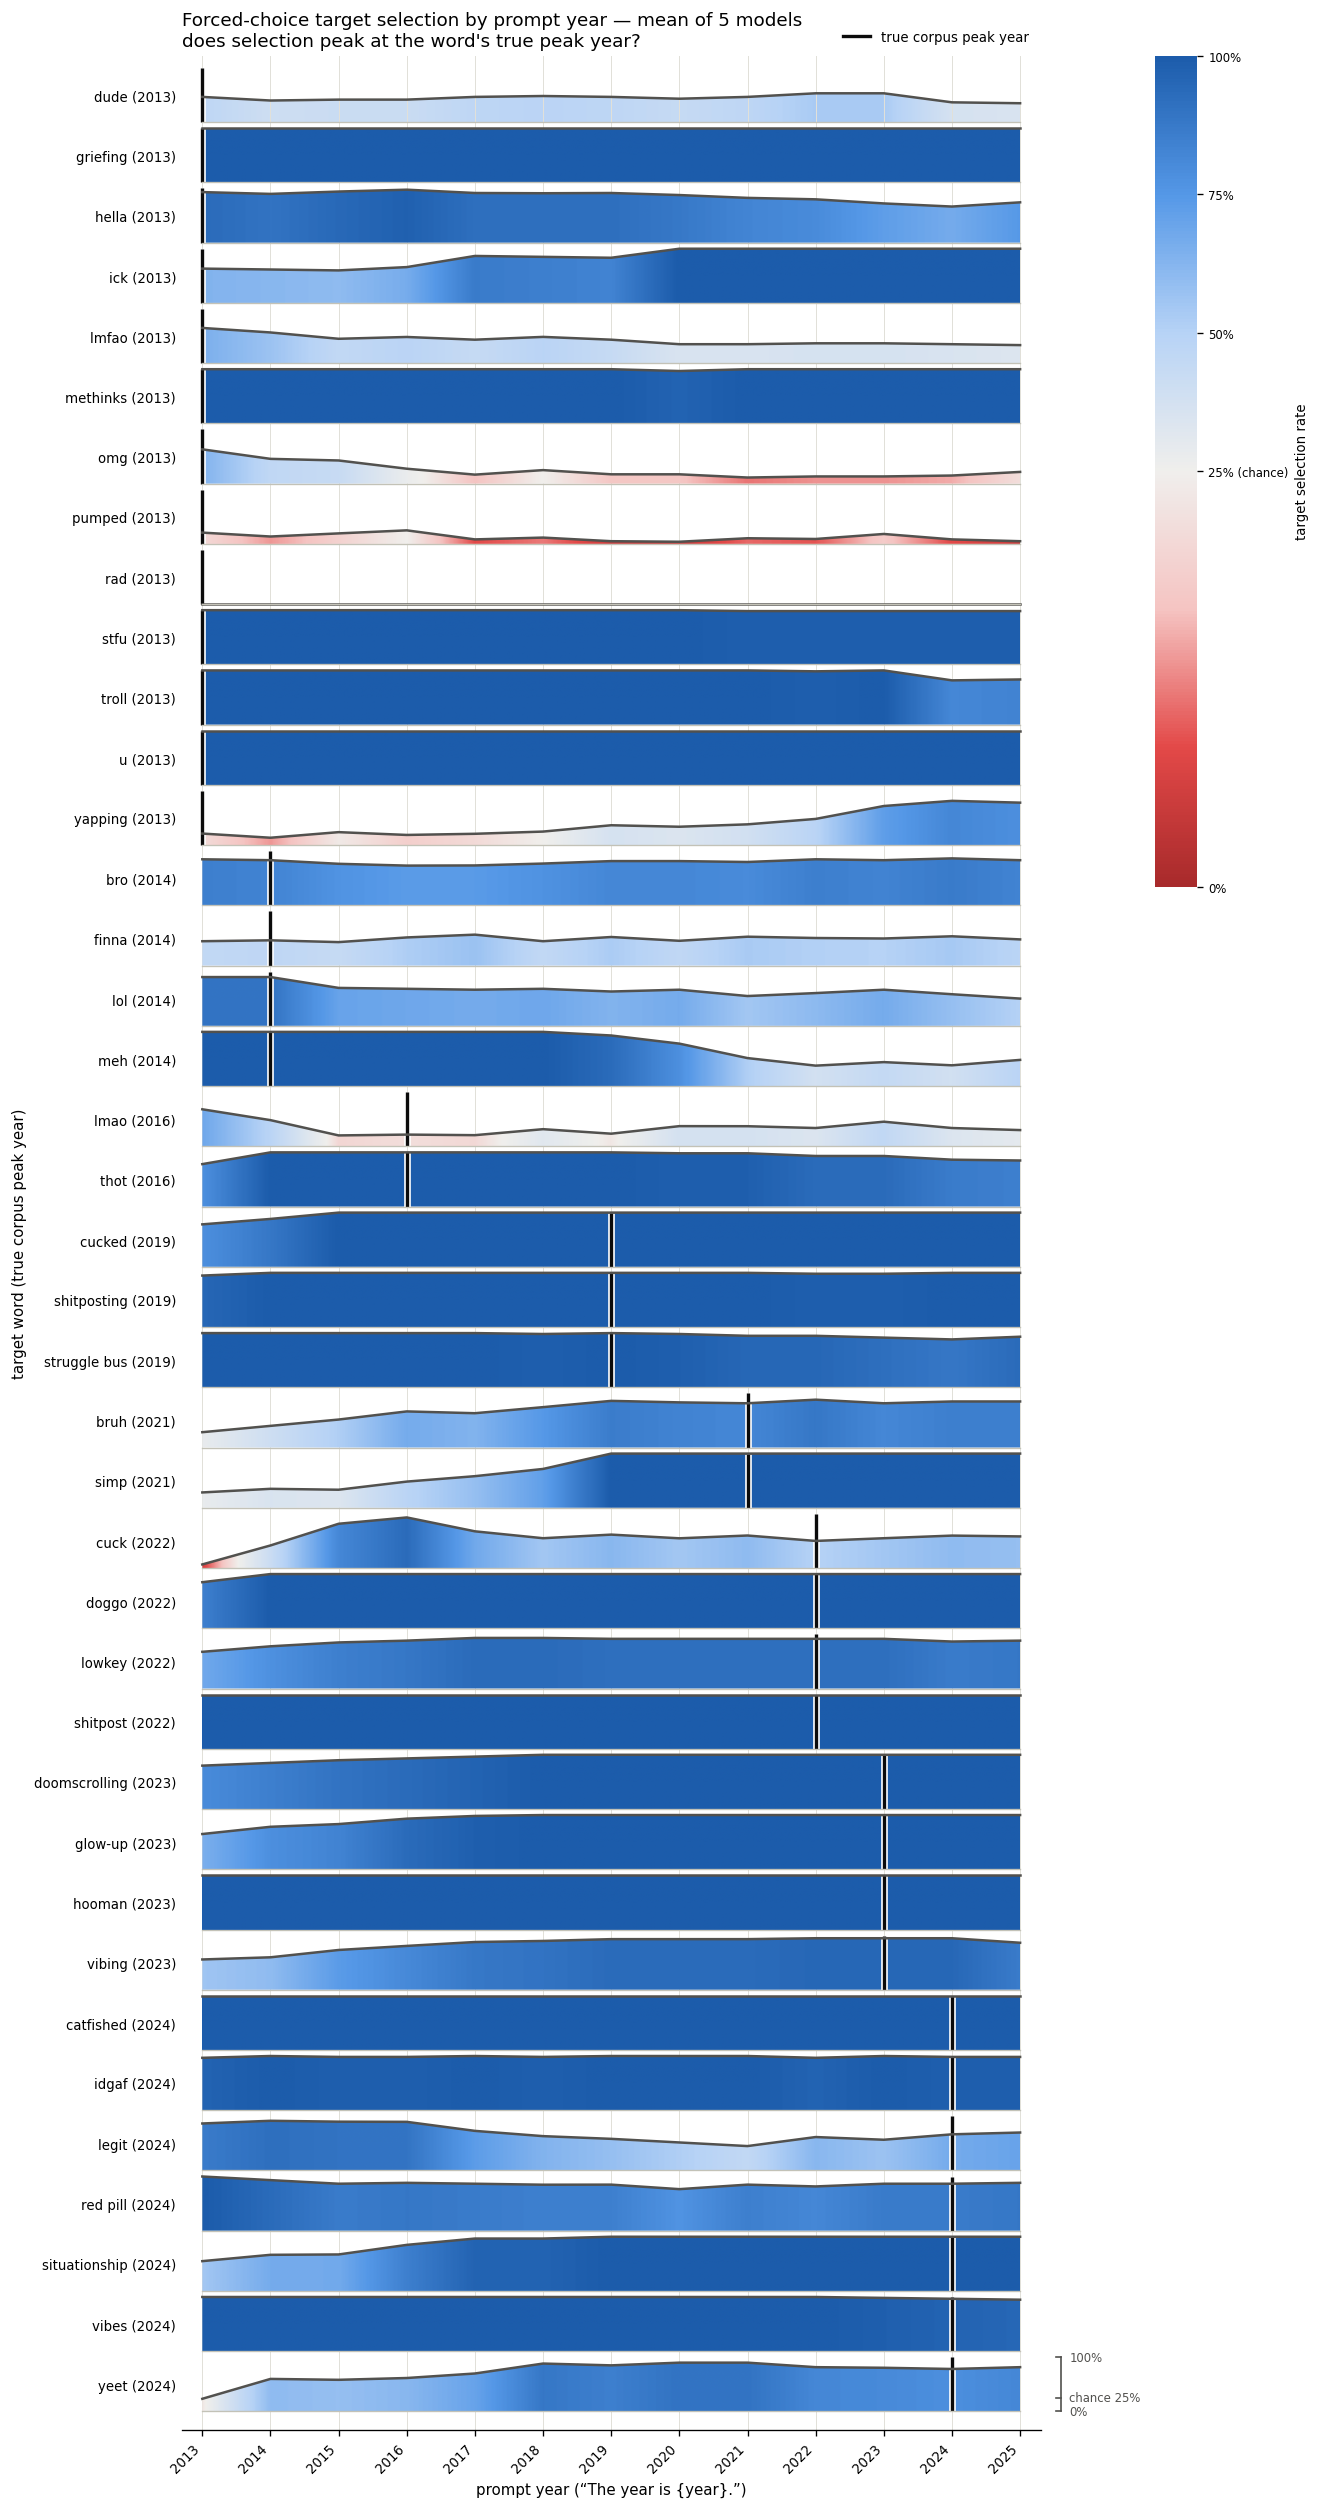
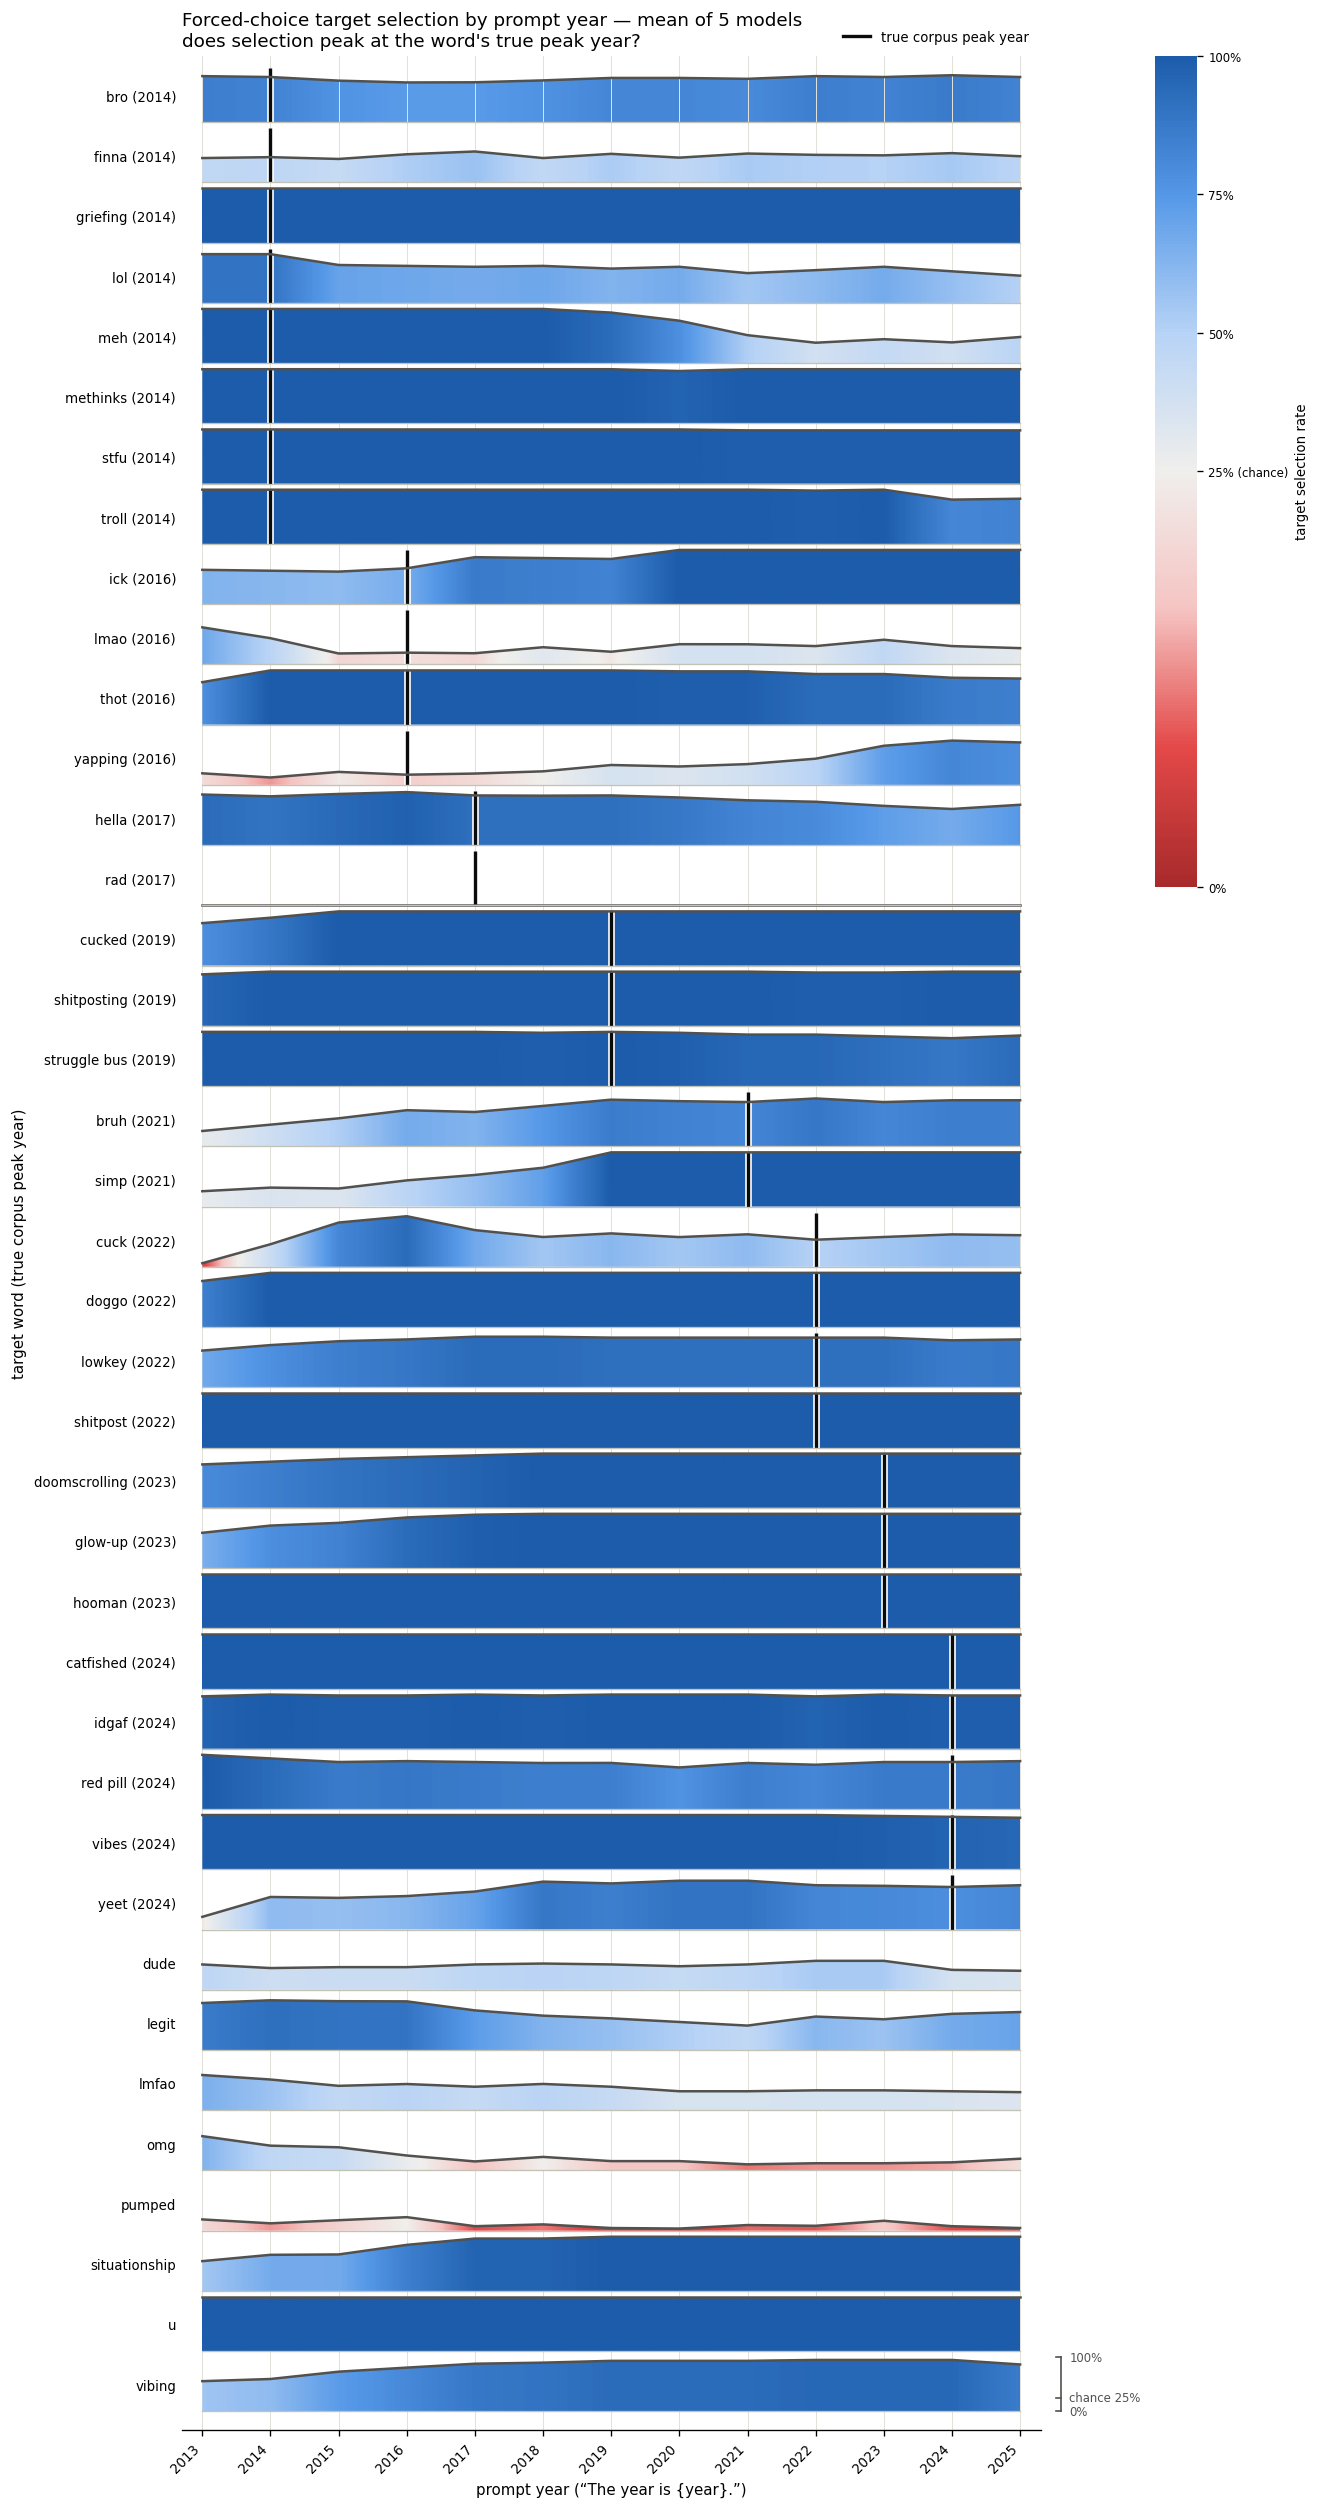
Regenerate analysis charts

diff --git a/PromptingSlang/experiments/semantic_slot_queries/visualizer/exp3_multi_choice_visualizer.py b/PromptingSlang/experiments/semantic_slot_queries/visualizer/exp3_multi_choice_visualizer.py
@@ -30,6 +30,7 @@ from __future__ import annotations
 
 import argparse
 import importlib.util
+import re
 import sys
 from collections import Counter, defaultdict
 from pathlib import Path
@@ -56,10 +57,8 @@ def _load(path: Path, name: str):
     return module
 
 
-# Word order and slot-id mapping come from the free-response visualizer, and the
-# A/B/C/D parsing from the forced-choice analysis script, so all three stay in
-# lockstep with this one.
-_slot = _load(Path(__file__).resolve().parent / "visualize.py", "_slot_viz")
+# The A/B/C/D parsing comes from the forced-choice analysis script, so the two
+# stay in lockstep.
 _cf = _load(EXP_DIR / "analysis" / "exp3_choice_freq.py", "_exp3_choice_freq")
 WORDS_CHRONO_ORDER = ["stfu", "lmfao", "griefing", "methinks", "omg", "u", "yapping",
                    "ick", "dude", "hella", "troll", "pumped", "rad", "lol", "meh",
@@ -67,7 +66,13 @@ WORDS_CHRONO_ORDER = ["stfu", "lmfao", "griefing", "methinks", "omg", "u", "yapp
                    "simp", "bruh", "cuck", "doggo", "shitpost", "💀", "lowkey", "doomscrolling",
                    "glow-up", "vibing", "hooman", "situationship", "yeet",
                    "catfished", "red pill", "vibes", "idgaf", "legit"]
-target_prompt_id = _slot.target_prompt_id
+# Prompt ids that can't be derived from the word itself (an emoji isn't a valid id).
+_PROMPT_ID_OVERRIDES = {"💀": "exp3_skull"}
+
+
+def target_prompt_id(word: str) -> str:
+    """'red pill' -> 'exp3_red_pill', 'glow-up' -> 'exp3_glow_up', '💀' -> 'exp3_skull'."""
+    return _PROMPT_ID_OVERRIDES.get(word) or "exp3_" + re.sub(r"[ \-]", "_", word)
 
 DEFAULT_RESPONSES = EXP_DIR / "results_from_list"
 DEFAULT_PEAK_YEARS = REPO_ROOT.parent / "FineWebAnalysis" / "peak_years_pct.json"

diff --git a/PromptingSlang/experiments/semantic_slot_queries/analysis/exp3_choice_freq.py b/PromptingSlang/experiments/semantic_slot_queries/analysis/exp3_choice_freq.py
@@ -78,9 +78,13 @@ def parse_answer(response: str | None) -> tuple[str | None, str]:
     return m.group(1), "clean" if re.fullmatch(r"[ABCD][).]?", s) else "lenient"
 
 
+# Slots whose target word can't be spelled in the prompt id (an emoji isn't a valid id).
+SLOT_WORD_OVERRIDES = {"exp3_skull": "💀"}
+
+
 def target_letter(slot: str, options: dict[str, str]) -> str | None:
     """Which option holds the slot's own word (``exp3_aura`` -> the ``aura`` option)."""
-    want = normalize(slot.removeprefix("exp3_"))
+    want = normalize(SLOT_WORD_OVERRIDES.get(slot) or slot.removeprefix("exp3_"))
     for letter, word in options.items():
         if normalize(word) == want:
             return letter
